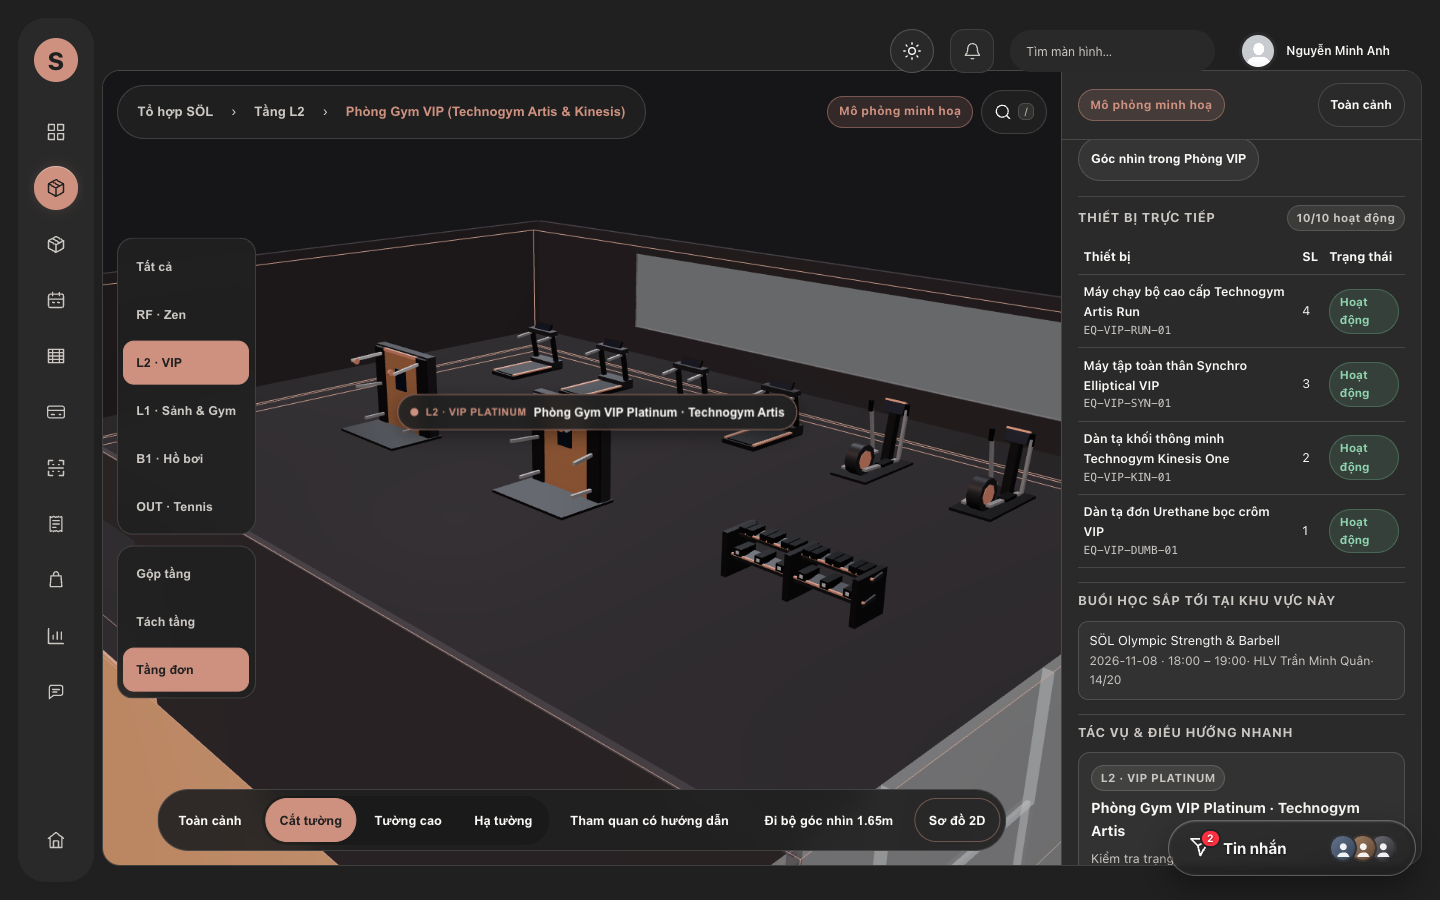
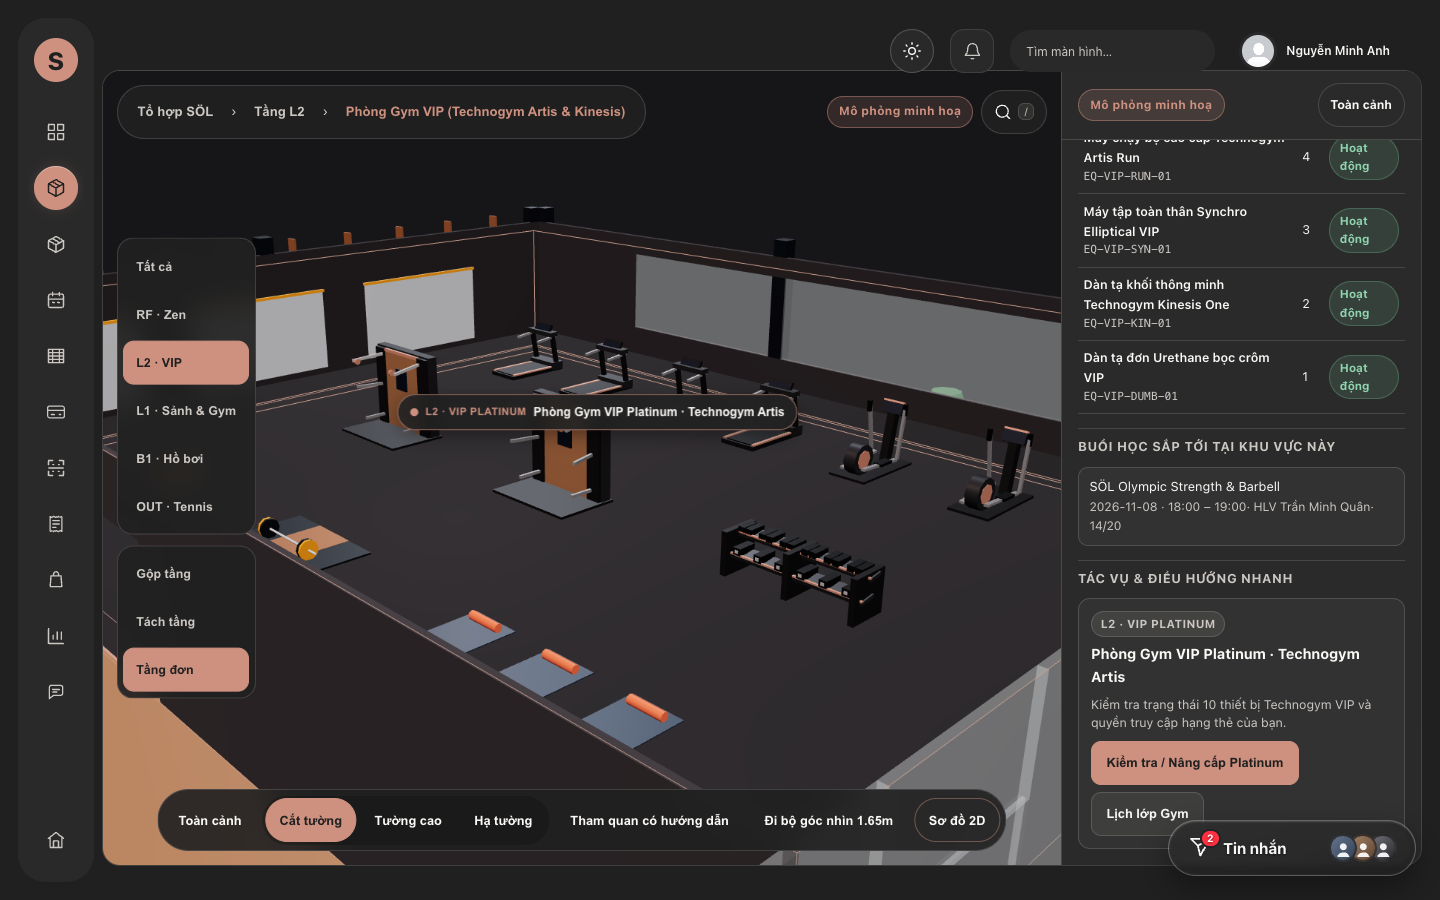
test(explore3d): update architecture tests, visual QA screenshots, perf report, and DESIGN.md

diff --git a/apps/web/src/features/explore3d/__tests__/architecture.test.ts b/apps/web/src/features/explore3d/__tests__/architecture.test.ts
@@ -13,6 +13,11 @@ import {
   splitWallIntoSegments,
 } from '../renderers/architecture/buildLevelGeometry';
 import {
+  buildCampusGeometry,
+  buildCampusSignageGeometry,
+} from '../renderers/architecture/buildCampusGeometry';
+import { buildLevelInteriorDetailsGeometry } from '../renderers/architecture/buildInteriorDetails';
+import {
   collectSceneExteriorWallDescriptors,
   computeCutawayWallIds,
   computeWallCameraDot,
@@ -102,6 +107,28 @@ describe('EXP-03 & EXP-11 Architecture, Cutaway, Materials & Lighting', () => {
       // Interior opaque & glass wall buckets must be valid (OUT has only exterior fence walls)
       assertValidBufferGeometry(built.interiorOpaqueGeometry, levelId === 'lvl-out');
       assertValidBufferGeometry(built.glassWallGeometry, levelId === 'lvl-out');
+
+      // Interior details geometry must be non-empty and vertex-colored on all 5 levels
+      expect(built.interiorDetailsGeometry.getAttribute('position').count).toBeGreaterThan(100);
+      expect(built.interiorDetailsGeometry.getAttribute('color')).toBeDefined();
+    });
+
+    it('builds comprehensive exterior campus & signage geometries without NaN vertices', () => {
+      const campusDark = buildCampusGeometry('dark');
+      expect(campusDark.getAttribute('position').count).toBeGreaterThan(1000);
+      expect(campusDark.getAttribute('color')).toBeDefined();
+      campusDark.dispose();
+
+      const signageGeom = buildCampusSignageGeometry();
+      assertValidBufferGeometry(signageGeom);
+      expect(signageGeom.getAttribute('position').count).toBeGreaterThanOrEqual(40);
+      signageGeom.dispose();
+
+      for (const code of ['B1', 'L1', 'L2', 'RF', 'OUT'] as const) {
+        const details = buildLevelInteriorDetailsGeometry(code);
+        expect(details.getAttribute('position').count).toBeGreaterThan(100);
+        details.dispose();
+      }
     });
 
     it('merges arbitrary BufferGeometries with typed arrays without NaN vertices', () => {

diff --git a/DESIGN.md b/DESIGN.md
@@ -290,3 +290,5 @@ VNPay Back/Forward (06/11/2026): khôi phục từ bfcache phải đồng bộ t
 
 
 Đặt lịch HLV 1:1 (06/11/2026): chọn tần suất “Một buổi / Hàng tuần” và thứ trong tuần ngay trong khối chọn ngày, trước khi chọn giờ. Lịch tuần xét 7 ngày kể từ ngày bắt đầu; thứ đã qua chuyển sang tuần sau trong khoảng này. Danh sách slot và ngày trong hộp xác nhận dùng ngày xuất hiện đầu tiên của lịch đã chọn, không yêu cầu ngày bắt đầu còn slot. Hiển thị ngày đang tra slot; slot nghỉ của HLV có lý do “HLV nghỉ sau 3 slot liên tiếp”. Giữ màu charcoal–salmon, bố cục và khoảng cách hiện hành.
+
+Toàn cảnh 3D SÖL Campus & Nội thất 5 tầng (`/member/explore`, 07/11/2026): mở rộng mô hình trung tâm 3D (`buildCampusGeometry.ts`, `buildInteriorDetails.ts`) thành tổ hợp thể thao ngoài đời thật theo đúng bảng màu charcoal–salmon: (1) **Cổng chính & An ninh 24/7** gồm cổng chào kiến trúc SÖL, chốt bảo vệ kính 360°, barrier tự động kèm đầu đọc thẻ RFID, vạch qua đường cho người đi bộ, mái đón trả khách Porte-Cochère và đài phun nước cảnh quan; (2) **Khu đỗ xe đầy đủ** gồm bãi đỗ ô tô mái năng lượng mặt trời kèm 4 trạm sạc nhanh EV Supercharge + 12 xe ô tô 3D chi tiết và nhà để xe máy/xe đạp có mái che (14 xe máy/tay ga + 5 xe đạp); (3) **Hệ thống biển hiệu 3D phát sáng** từ 1 atlas `CanvasTexture` duy nhất (`SÖL FITNESS & WELLNESS`, `SÖL CENTER · FLAGSHIP CLUB`, `CỔNG CHÍNH · SÖL MAIN GATE`, `SÖL SANCTUARY · SẢNH CHÍNH`, trụ totem chỉ dẫn 5 tầng `SÖL DIRECTORY`, biển `BÃI ĐỖ XE Ô TÔ · EV CHARGING`, `NHÀ ĐỂ XE MÁY & XE ĐẠP` và bảng tỷ số `SÖL TENNIS ARENA`); (4) **Chi tiết nội/ngoại thất từng tầng** (ghế tắm nắng & dù hồ bơi, ghế cứu hộ, bồn ngâm lạnh, phòng tắm đứng kính mờ ở `B1`; vách logo lễ tân, sofa sảnh chờ, giá treo trang phục & tủ mát RTD, gương tập đèn hắt, sàn nâng tạ Olympic, đường turf đẩy tạ sled 21m, lưới cầu lông 3D ở `L1`; gương vàng khói VIP, màn hình phân tích InBody 65", đường turf PT 1:1 và quầy bar Platinum ở `L2`; sân khấu cồng chiêng đồng & vườn trúc sỏi trắng, giàn pergola gỗ tuyết tùng, hồ cá Koi và bàn lửa ngoài trời ở `RF`; lưới tennis 3D, 4 cột đèn pha sân vận động, khán đài 3 bậc và ghế nghỉ vận động viên ở `OUT`). Toàn bộ chi tiết tĩnh được gộp theo đỉnh (`vertexColors`) để giữ `maxDrawCalls <= 115` và `avgFps ~ 59`.

diff --git a/docs/qa/explore3d-perf.md b/docs/qa/explore3d-perf.md
@@ -9,12 +9,12 @@
 | Chỉ số | Kết quả đo | Ngưỡng mục tiêu | Đạt |
 | :--- | :---: | :---: | :---: |
 | **p50 Frame Time** | `16.7 ms` | `<= 16.7 ms` | PASS |
-| **p95 Frame Time** | `17.2 ms` | `<= 25.0 ms` | PASS |
-| **FPS trung bình (khi chuyển động)** | `59 FPS` | `>= 45 FPS` | PASS |
-| **Draw Calls tối đa (`gl.info.render.calls`)** | `117` | `<= 120` | PASS |
-| **Triangles tối đa (`gl.info.render.triangles`)** | `26,470` | `<= 120,000` | PASS |
-| **Bộ nhớ Geometries (`gl.info.memory.geometries`)** | `62` | `<= 80` | PASS |
-| **Bộ nhớ Textures (`gl.info.memory.textures`)** | `7` | `<= 24` | PASS |
+| **p95 Frame Time** | `17.4 ms` | `<= 25.0 ms` | PASS |
+| **FPS trung bình (khi chuyển động)** | `58 FPS` | `>= 45 FPS` | PASS |
+| **Draw Calls tối đa (`gl.info.render.calls`)** | `115` | `<= 120` | PASS |
+| **Triangles tối đa (`gl.info.render.triangles`)** | `49,000` | `<= 120,000` | PASS |
+| **Bộ nhớ Geometries (`gl.info.memory.geometries`)** | `65` | `<= 80` | PASS |
+| **Bộ nhớ Textures (`gl.info.memory.textures`)** | `8` | `<= 24` | PASS |
 | **GPU khi đứng yên (`frameloop="demand"`)** | `0 FPS` (chỉ render khi `invalidate()`) | `0 FPS` | PASS |
 
 ## 2. Kích thước Bundle & Code Splitting (`vite build`)
